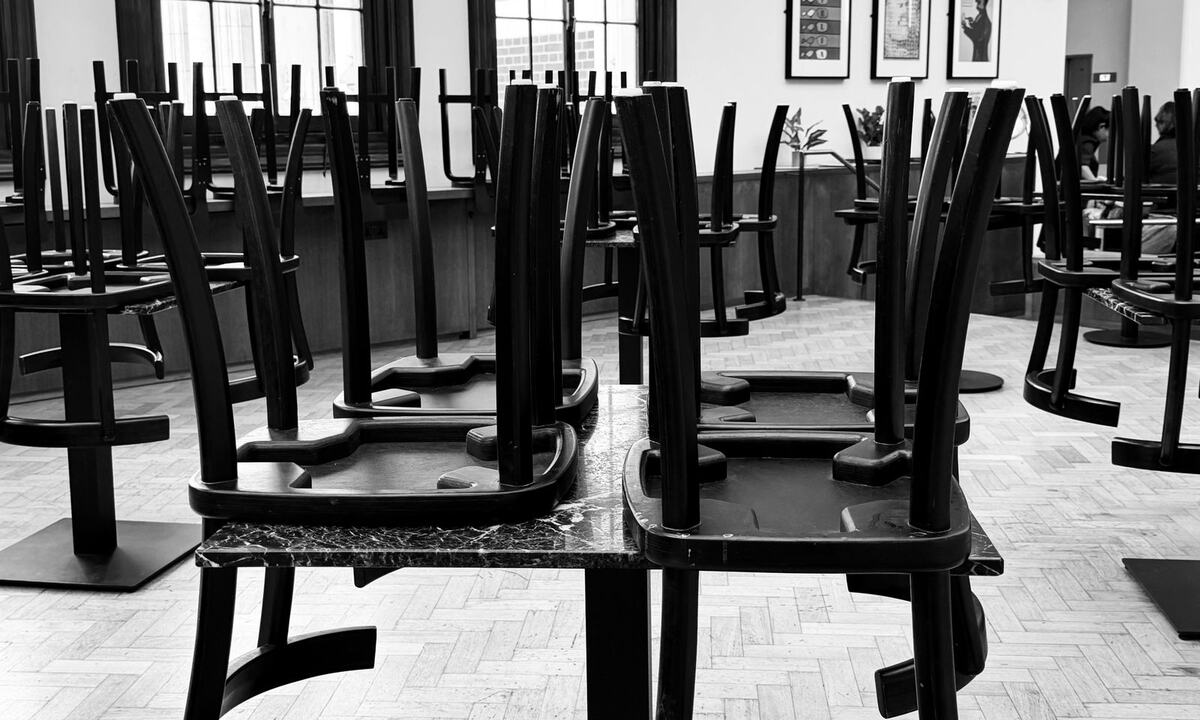
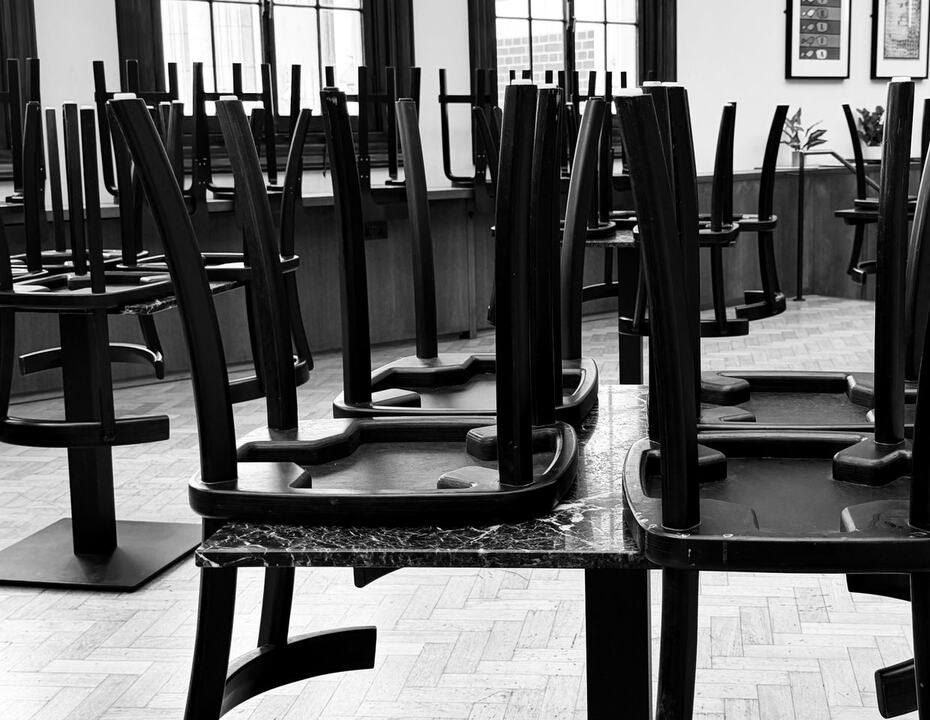
Journal: remove every photo that shows people; Earn the commute opens on the lounge, Renovate without closing on the closed restaurant (cropped clear of two diners)

diff --git a/public/journal/renovate-without-closing.html b/public/journal/renovate-without-closing.html
@@ -12,10 +12,10 @@
   <meta property="og:title" content="Renovate without closing">
   <meta property="og:description" content="Every week closed is revenue that doesn't come back. How to renovate in phases so the space keeps earning.">
   <meta property="og:url" content="https://studiograta.in/journal/renovate-without-closing">
-  <meta property="og:image" content="https://studiograta.in/images/journal/renovate-without-closing/hero.jpg">
+  <meta property="og:image" content="https://studiograta.in/images/journal/renovate-without-closing/closed.jpg">
   <meta name="twitter:card" content="summary_large_image">
   <script type="application/ld+json">
-  {"@context": "https://schema.org", "@type": "Article", "headline": "Renovate without closing", "datePublished": "2026-10-28", "author": {"@type": "Person", "name": "Amritha Madhavan"}, "publisher": {"@type": "Organization", "@id": "https://studiograta.in/#studio", "name": "Studio Grata", "url": "https://studiograta.in/", "logo": "https://studiograta.in/images/logo.png"}, "image": "https://studiograta.in/images/journal/renovate-without-closing/hero.jpg", "description": "Every week a hotel, restaurant or spa is closed is revenue that doesn't come back. How to plan a renovation in phases so the space keeps earning while the work happens.", "mainEntityOfPage": "https://studiograta.in/journal/renovate-without-closing", "url": "https://studiograta.in/journal/renovate-without-closing", "inLanguage": "en-IN"}
+  {"@context": "https://schema.org", "@type": "Article", "headline": "Renovate without closing", "datePublished": "2026-10-28", "author": {"@type": "Person", "name": "Amritha Madhavan"}, "publisher": {"@type": "Organization", "@id": "https://studiograta.in/#studio", "name": "Studio Grata", "url": "https://studiograta.in/", "logo": "https://studiograta.in/images/logo.png"}, "image": "https://studiograta.in/images/journal/renovate-without-closing/closed.jpg", "description": "Every week a hotel, restaurant or spa is closed is revenue that doesn't come back. How to plan a renovation in phases so the space keeps earning while the work happens.", "mainEntityOfPage": "https://studiograta.in/journal/renovate-without-closing", "url": "https://studiograta.in/journal/renovate-without-closing", "inLanguage": "en-IN"}
   </script>
   <link rel="preconnect" href="https://fonts.googleapis.com">
   <link rel="preconnect" href="https://fonts.gstatic.com" crossorigin>
@@ -39,7 +39,7 @@
       </header>
 
       <figure class="jp__hero">
-        <img src="/images/journal/renovate-without-closing/hero.jpg" alt="Workers on scaffolding restoring a tall arched window inside a dark historic interior">
+        <img src="/images/journal/renovate-without-closing/closed.jpg" alt="A closed restaurant with chairs stacked upside down on the tables">
       </figure>
 
       <div class="jp__body">
@@ -57,9 +57,6 @@
 
           <p>Closing completely is sometimes the right call. But it should be a decision, not a default. Most renovations can be planned so that part of the space keeps earning while the rest is rebuilt.</p>
 
-          <figure class="jp__single">
-            <img src="/images/journal/renovate-without-closing/closed.jpg" alt="A closed restaurant with chairs stacked upside down on the tables" loading="lazy">
-          </figure>
 
           <h2>Put a number on closing</h2>
           <p>Before choosing how to phase the work, work out what a week closed actually costs. Take the revenue you'd lose, add the costs that keep running, and add a little for the guests who won't come back. Then compare it with the cost of phasing: a longer programme, night shifts, temporary partitions and some lost covers or rooms along the way.</p>
@@ -76,10 +73,6 @@
           <h3>Use the quiet season</h3>
           <p>Resorts and hill-station hotels have months when occupancy drops. Plan the heaviest work for that window, and have every material on site before it opens. A delivery that arrives three weeks late can push the work into peak season.</p>
 
-          <figure class="jp__pair">
-            <img src="/images/journal/renovate-without-closing/corridor.jpg" alt="A long hotel corridor with patterned carpet and a staff member at the far end" loading="lazy">
-            <img src="/images/journal/renovate-without-closing/opening.jpg" alt="A worker seen through an opening cut in a pink plastered wall" loading="lazy">
-          </figure>
 
           <h2>Keep the core running</h2>
           <p>Some parts of the business can't stop: the kitchen, the front desk, the toilets, the fire exits. Plan these first.</p>
@@ -107,9 +100,6 @@
           <p>Phasing isn't something to add once the design is done. It changes the design. Materials with long lead times get ordered early. Prefabricated joinery, made off site and fitted in days, cuts the time each zone is closed. Finishes that go on quickly and dry fast keep zones out of action for less time.</p>
           <p>We draw the phasing plan alongside the layout, so every zone has a start date, a finish date and a route around it.</p>
 
-          <figure class="jp__single">
-            <img src="/images/journal/renovate-without-closing/open.jpg" alt="An open cafe with wooden tables beside large windows onto a city street" loading="lazy">
-          </figure>
 
           <h2>Five questions for your contractor and designer</h2>
           <ol>
@@ -128,7 +118,7 @@
 
           <section class="jp__sources" aria-label="Photos">
             <h2>Photos</h2>
-            <p>All images are illustrative, from Pexels. Window restoration: Plato Terentev. Closed restaurant: Jude Mitchell-Hedges. Hotel corridor: cottonbro studio. Wall opening: Mustafa S. Cafe: Brett Sayles.</p>
+            <p>All images are illustrative, from Pexels. Closed restaurant: Jude Mitchell-Hedges.</p>
           </section>
         </div>
       </div>

diff --git a/public/journal/earn-the-commute.html b/public/journal/earn-the-commute.html
@@ -12,10 +12,10 @@
   <meta property="og:title" content="The office has to earn the commute: designing for the days your team comes in">
   <meta property="og:description" content="Most Indian teams now have set office days. What the workplace research says people come in for, and how to design a startup or boutique office for its busiest day.">
   <meta property="og:url" content="https://studiograta.in/journal/earn-the-commute">
-  <meta property="og:image" content="https://studiograta.in/images/journal/earn-the-commute/hero.jpg">
+  <meta property="og:image" content="https://studiograta.in/images/journal/earn-the-commute/lounge.jpg">
   <meta name="twitter:card" content="summary_large_image">
   <script type="application/ld+json">
-  {"@context": "https://schema.org", "@type": "Article", "headline": "The office has to earn the commute: designing for the days your team comes in", "datePublished": "2026-11-03", "author": {"@type": "Person", "name": "Shirin KC"}, "publisher": {"@type": "Organization", "@id": "https://studiograta.in/#studio", "name": "Studio Grata", "url": "https://studiograta.in/", "logo": "https://studiograta.in/images/logo.png"}, "image": "https://studiograta.in/images/journal/earn-the-commute/hero.jpg", "description": "Most Indian teams now have set office days. What the workplace research says people come in for, and how to design a startup or boutique office for its busiest day.", "mainEntityOfPage": "https://studiograta.in/journal/earn-the-commute", "url": "https://studiograta.in/journal/earn-the-commute", "inLanguage": "en-IN"}
+  {"@context": "https://schema.org", "@type": "Article", "headline": "The office has to earn the commute: designing for the days your team comes in", "datePublished": "2026-11-03", "author": {"@type": "Person", "name": "Shirin KC"}, "publisher": {"@type": "Organization", "@id": "https://studiograta.in/#studio", "name": "Studio Grata", "url": "https://studiograta.in/", "logo": "https://studiograta.in/images/logo.png"}, "image": "https://studiograta.in/images/journal/earn-the-commute/lounge.jpg", "description": "Most Indian teams now have set office days. What the workplace research says people come in for, and how to design a startup or boutique office for its busiest day.", "mainEntityOfPage": "https://studiograta.in/journal/earn-the-commute", "url": "https://studiograta.in/journal/earn-the-commute", "inLanguage": "en-IN"}
   </script>
   <link rel="preconnect" href="https://fonts.googleapis.com">
   <link rel="preconnect" href="https://fonts.gstatic.com" crossorigin>
@@ -39,7 +39,7 @@
       </header>
 
       <figure class="jp__hero">
-        <img src="/images/journal/earn-the-commute/hero.jpg" alt="Two colleagues planning on a whiteboard of sticky notes in a small glass-walled meeting room">
+        <img src="/images/journal/earn-the-commute/lounge.jpg" alt="An office lounge with a round wooden table, a laptop and a long sofa">
       </figure>
 
       <div class="jp__body">
@@ -72,9 +72,8 @@
           <p>The pattern is common: one boardroom that is always booked, used mostly for small conversations. For a growing team, several rooms for two to four people, plus a couple of phone booths, usually do more work than one big table.</p>
           <p><strong>The design question:</strong> how fast can someone find a free room and start talking? Rooms you can see into from the desks, a booking system that releases no-shows, and furniture that needs no rearranging all keep rooms turning.</p>
 
-          <figure class="jp__pair">
+          <figure class="jp__single">
             <img src="/images/journal/earn-the-commute/focus.jpg" alt="A row of desks with a planter of snake plants running along the middle" loading="lazy">
-            <img src="/images/journal/earn-the-commute/lounge.jpg" alt="An office lounge with a round wooden table, a laptop and a long sofa" loading="lazy">
           </figure>
 
           <h2>3. Quiet is a layout decision</h2>

diff --git a/public/journal/local-materials.html b/public/journal/local-materials.html
@@ -67,10 +67,6 @@
           </ul>
           <p>If the answers don't add up, we don't drop the material. We change where it goes: a feature wall instead of every floor, the lounge instead of every room.</p>
 
-          <figure class="jp__pair">
-            <img src="/images/journal/local-materials/handloom.jpg" alt="A weaver at a wooden handloom weaving red cloth" loading="lazy">
-            <img src="/images/journal/local-materials/cane.jpg" alt="A woman weaving cane strips by hand" loading="lazy">
-          </figure>
 
           <h2>Variation is the point, so plan for it</h2>
           <p>A handmade tile is cured by hand and dried in the open. A cane panel depends on the weaver and the batch of cane. That variation is a big part of why these materials feel alive. In a hotel it can also look like a mistake if it isn't managed.</p>
@@ -85,9 +81,6 @@
           <p>Many traditional materials run on weather. Cement tiles and lime need curing time. Timber needs seasoning. Open-air drying slows down in the monsoon. Artisan teams get smaller around harvests and festivals.</p>
           <p>A resort opening calendar has to work around these, not against them. That's why regional materials get the earliest freeze points on our projects. If a material needs months, the decision needs to happen months before that.</p>
 
-          <figure class="jp__single">
-            <img src="/images/journal/local-materials/loom.jpg" alt="A woman smiling at a loom strung with white warp threads" loading="lazy">
-          </figure>
 
           <h2>Not every local material belongs everywhere</h2>
           <p>Being rooted in a place doesn't make a material right for every part of a hotel. A few honest limits:</p>
@@ -98,9 +91,8 @@
           </ul>
           <p>The aim is to put each material where it does its best work and lasts.</p>
 
-          <figure class="jp__pair">
+          <figure class="jp__single">
             <img src="/images/journal/local-materials/tiled-floor.jpg" alt="A patterned tile floor on a terrace lined with potted plants" loading="lazy">
-            <img src="/images/journal/local-materials/embroidery.jpg" alt="A craftsman embroidering fabric stretched on a wooden frame" loading="lazy">
           </figure>
 
           <h2>Paperwork and packing are part of the material</h2>
@@ -131,7 +123,7 @@
 
           <section class="jp__sources" aria-label="Photos">
             <h2>Photos</h2>
-            <p>All images are illustrative, from Pexels. Handloom: Rachel Fernandes. Cane weaving: pierre matile. Tiled floor: Leticia Alvares. Embroidery: Aditya Oberai. Loom: Susheel Parihar.</p>
+            <p>All images are illustrative, from Pexels. Tiled floor: Leticia Alvares.</p>
           </section>
         </div>
       </div>

diff --git a/public/journal/keep-refresh-replace.html b/public/journal/keep-refresh-replace.html
@@ -85,10 +85,6 @@
             <li>planting, art and soft furnishings</li>
           </ul>
 
-          <figure class="jp__pair">
-            <img src="/images/journal/keep-refresh-replace/restore.jpg" alt="A craftswoman cleaning a carved wooden frame in a workshop stacked with timber" loading="lazy">
-            <img src="/images/journal/keep-refresh-replace/paint.jpg" alt="A painter rolling white paint onto a high wall in a bright, empty room" loading="lazy">
-          </figure>
 
           <h3>Replace</h3>
           <p>Things that cost you money every day. Layouts that waste covers, kitchens and bars in the wrong place, finishes that can't be cleaned, services near the end of their life. These are worth spending on, because they change the numbers.</p>
@@ -107,9 +103,6 @@
             <li><strong>The arrival.</strong> The entrance, the host stand or the reception desk sets the first impression, and the price guests expect to pay.</li>
           </ol>
 
-          <figure class="jp__single">
-            <img src="/images/journal/keep-refresh-replace/seating.jpg" alt="Leather chairs around a round wooden table by a cafe window" loading="lazy">
-          </figure>
 
           <h2>A renovation still needs a design</h2>
           <p>Refreshing piece by piece, without a plan, is how spaces end up looking patched. A new sofa that doesn't sit with the old floor. A bright new light next to a tired ceiling. The keep pile still has to belong to the new design. That means choosing new finishes that work with what stays, not against it.</p>
@@ -145,7 +138,7 @@
 
           <section class="jp__sources" aria-label="Photos">
             <h2>Photos</h2>
-            <p>All images are illustrative, from Pexels. Room under renovation: Francesco Ungaro. Furniture workshop: GOWTHAM AGM. Painter: Antoni Shkraba. Cafe chairs: Denis Coppeland. Restaurant: Vishwanth PindiBoina.</p>
+            <p>All images are illustrative, from Pexels. Room under renovation: Francesco Ungaro. Restaurant: Vishwanth PindiBoina.</p>
           </section>
         </div>
       </div>
@@ -158,7 +151,7 @@
         </ul>
 
         <a class="jp__next" href="/journal/renovate-without-closing">
-          <img src="/images/journal/renovate-without-closing/hero.jpg" alt="" loading="lazy">
+          <img src="/images/journal/renovate-without-closing/closed.jpg" alt="" loading="lazy">
           <span class="jp__next-label">read next</span>
           <span class="jp__next-title">Renovate without closing</span>
         </a>

diff --git a/public/journal/psychology-of-space.html b/public/journal/psychology-of-space.html
@@ -70,10 +70,9 @@
           <p>Sound works the same way. In Ronald Milliman's 1986 restaurant study, guests ate faster with fast background music. With slow music they stayed longer and spent significantly more at the bar. Music can also influence what people choose: in a 1997 study published in <em>Nature</em>, French wines outsold German ones in a supermarket when French music played, and the reverse happened with German music. Few shoppers said the music had influenced them (North, Hargreaves and McKendrick).</p>
           <p><strong>In the room:</strong> we start from the dwell time the operator's model needs, then set the seating, lighting, acoustics and music zones to match it.</p>
 
-          <figure class="jp__pair">
+          <figure class="jp__single">
             <img src="/images/journal/psychology-of-space/capacity.jpg" alt="Booth seating along the wall of a softly lit cafe" loading="lazy">
-            <img src="/images/journal/psychology-of-space/value.jpg" alt="A hotel lounge with blue velvet chairs, a stone patterned floor and a bar beyond" loading="lazy">
-            <figcaption>Illustrative images. Left: Natalia S / Pexels. Right: Pexels</figcaption>
+            <figcaption>Illustrative image. Photo: Natalia S / Pexels</figcaption>
           </figure>
 
           <h2>Flow: the wait, the queue and the changeover</h2>
@@ -96,10 +95,9 @@
           <p>The same holds for a cafe counter, a hotel lobby or a spa reception. A menu board or merchandise wall right at the door often goes unseen.</p>
           <p><strong>In the room:</strong> we keep the threshold calm, then put the first moment that matters (the menu, the display, the host) just past it, where people are ready to take it in.</p>
 
-          <figure class="jp__pair">
-            <img src="/images/journal/psychology-of-space/use.jpg" alt="A barista serving at a busy coffee counter" loading="lazy">
+          <figure class="jp__single">
             <img src="/images/journal/psychology-of-space/threshold.jpg" alt="Looking through the open door of a clothing boutique" loading="lazy">
-            <figcaption>Illustrative images. Left: H. Hümâ Yardim / Pexels. Right: Rachel Claire / Pexels</figcaption>
+            <figcaption>Illustrative image. Photo: Rachel Claire / Pexels</figcaption>
           </figure>
 
           <h2>Upkeep: what wear tells your guests</h2>

diff --git a/public/journal/attic-stock.html b/public/journal/attic-stock.html
@@ -132,8 +132,7 @@
           <p>Attic stock is a small slice of the materials budget. What it protects is the number that matters most to an operator over time: upkeep. A room that stays in inventory, looks the way it did on opening day and can be repaired in hours instead of weeks keeps earning.</p>
           <p>That's why we put attic stock into the specification at the design stage, not as an afterthought at handover. It sits with our freeze points: once a material is locked for ordering, the spare quantity is locked with it.</p>
 
-          <figure class="jp__pair">
-            <img src="/images/journal/attic-stock/housekeeping.jpg" alt="Two housekeepers making up a hotel bed" loading="lazy">
+          <figure class="jp__single">
             <img src="/images/journal/attic-stock/upholstery.jpg" alt="Close-up of a buttoned grey upholstered headboard" loading="lazy">
           </figure>
 
@@ -154,7 +153,7 @@
 
           <section class="jp__sources" aria-label="Photos">
             <h2>Photos</h2>
-            <p>All images are illustrative, from Pexels. Tile shelves and tile samples: cottonbro studio. Material samples: tiago alves. Storeroom: Markus Winkler. Housekeeping: Liliana Drew. Headboard: Max Vakhtbovych.</p>
+            <p>All images are illustrative, from Pexels. Tile shelves and tile samples: cottonbro studio. Material samples: tiago alves. Storeroom: Markus Winkler. Headboard: Max Vakhtbovych.</p>
           </section>
         </div>
       </div>

diff --git a/public/journal/index.html b/public/journal/index.html
@@ -50,7 +50,7 @@
     <!-- Every post, newest first, big with its photo. The photo side
          alternates (journal.js), also when a topic is chosen. -->
     <a class="jl__latest" href="/journal/earn-the-commute" data-topic="workplaces">
-      <img src="/images/journal/earn-the-commute/hero.jpg" alt="">
+      <img src="/images/journal/earn-the-commute/lounge.jpg" alt="">
       <span class="jl__latest-text">
         <span class="jl__kicker">workplaces</span>
         <span class="jl__latest-title">The office has to earn the commute</span>
@@ -70,7 +70,7 @@
     </a>
 
     <a class="jl__latest" href="/journal/renovate-without-closing" data-topic="hospitality fnb wellness">
-      <img src="/images/journal/renovate-without-closing/hero.jpg" alt="" loading="lazy">
+      <img src="/images/journal/renovate-without-closing/closed.jpg" alt="" loading="lazy">
       <span class="jl__latest-text">
         <span class="jl__kicker">hospitality</span>
         <span class="jl__latest-title">Renovate without closing</span>

diff --git a/public/journal/trial-to-member.html b/public/journal/trial-to-member.html
@@ -71,9 +71,8 @@
           <h3>1. Finding the door</h3>
           <p>First-timers are already nervous, and many studios are on a first floor reached through a shared stairwell. Uncertainty makes waits and arrivals feel longer and more stressful (Maister, 1985). Clear signs from the street, a visible entrance and a lit stair take the guesswork out before they arrive.</p>
 
-          <figure class="jp__pair">
+          <figure class="jp__single">
             <img src="/images/work/sohum-corridor.webp" alt="Corridor of wooden lattice screens and curtains at Sohum Spa" loading="lazy">
-            <img src="/images/journal/trial-to-member/stairs.jpg" alt="A gym seen from above, with a staircase leading down to the training floor" loading="lazy">
           </figure>
 
           <h3>2. Shoes, keys and phone</h3>

diff --git a/public/journal/fit-out-for-growth.html b/public/journal/fit-out-for-growth.html
@@ -133,7 +133,7 @@
         </ul>
 
         <a class="jp__next" href="/journal/earn-the-commute">
-          <img src="/images/journal/earn-the-commute/hero.jpg" alt="" loading="lazy">
+          <img src="/images/journal/earn-the-commute/lounge.jpg" alt="" loading="lazy">
           <span class="jp__next-label">read next</span>
           <span class="jp__next-title">The office has to earn the commute</span>
         </a>
